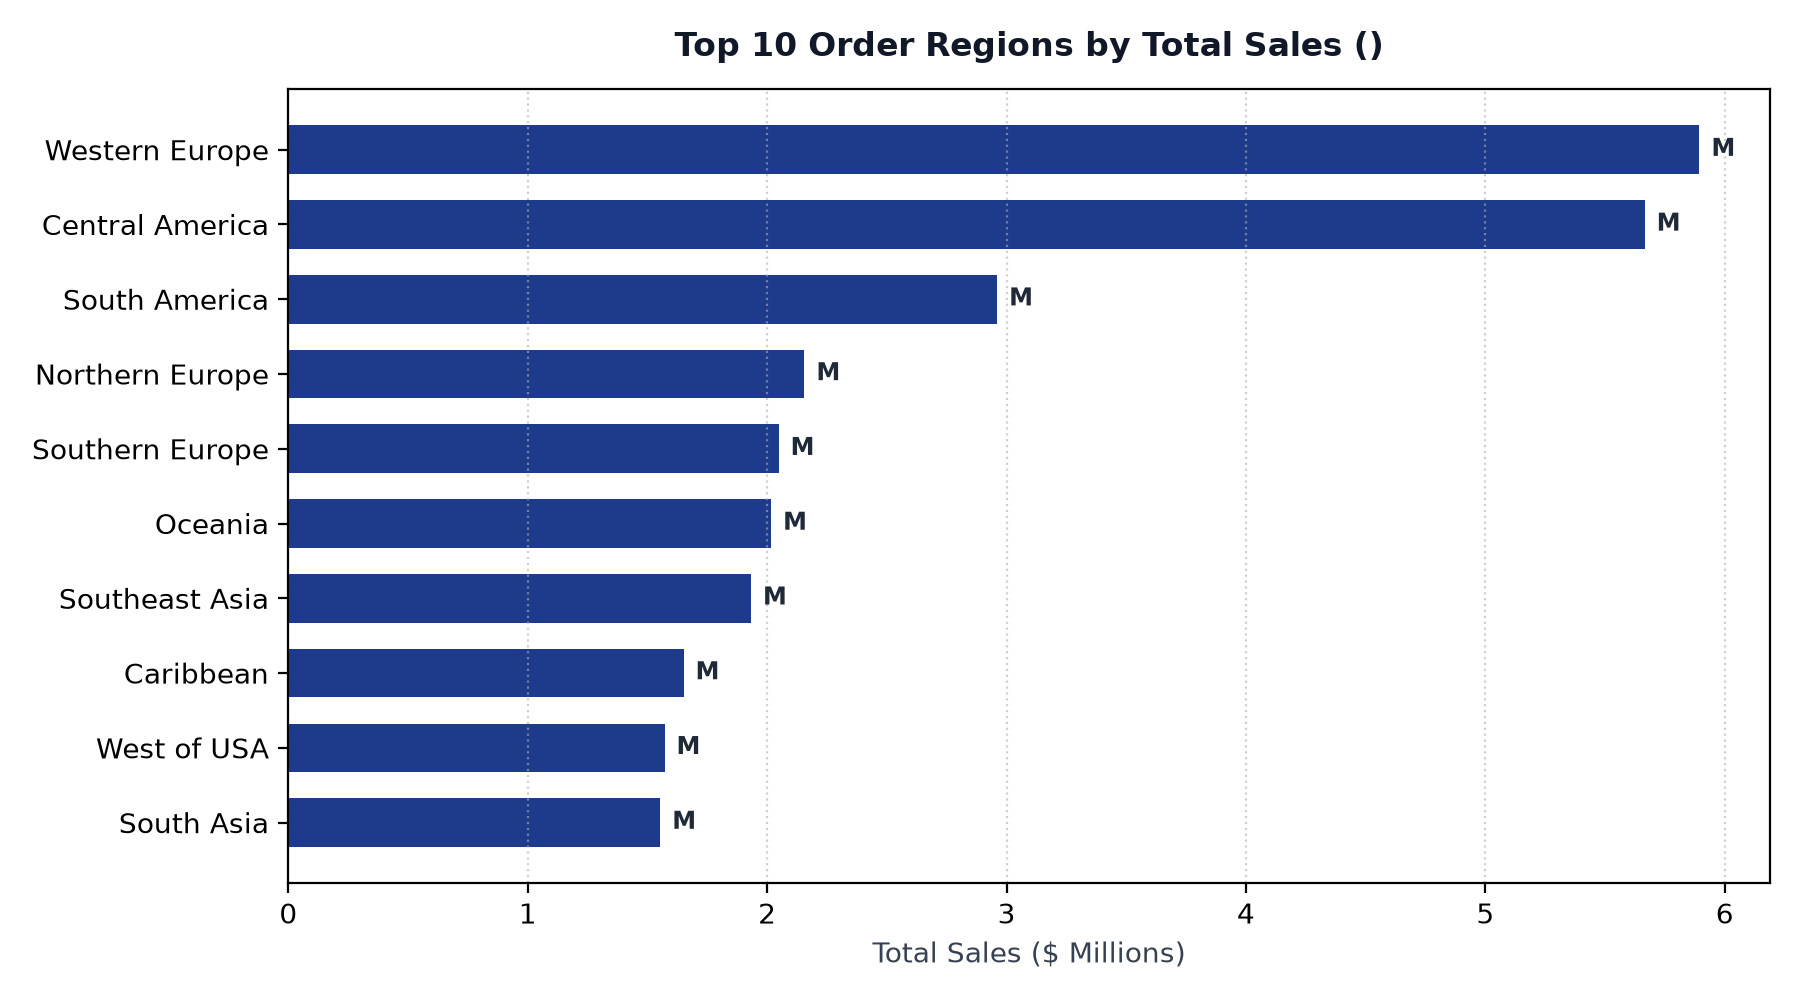
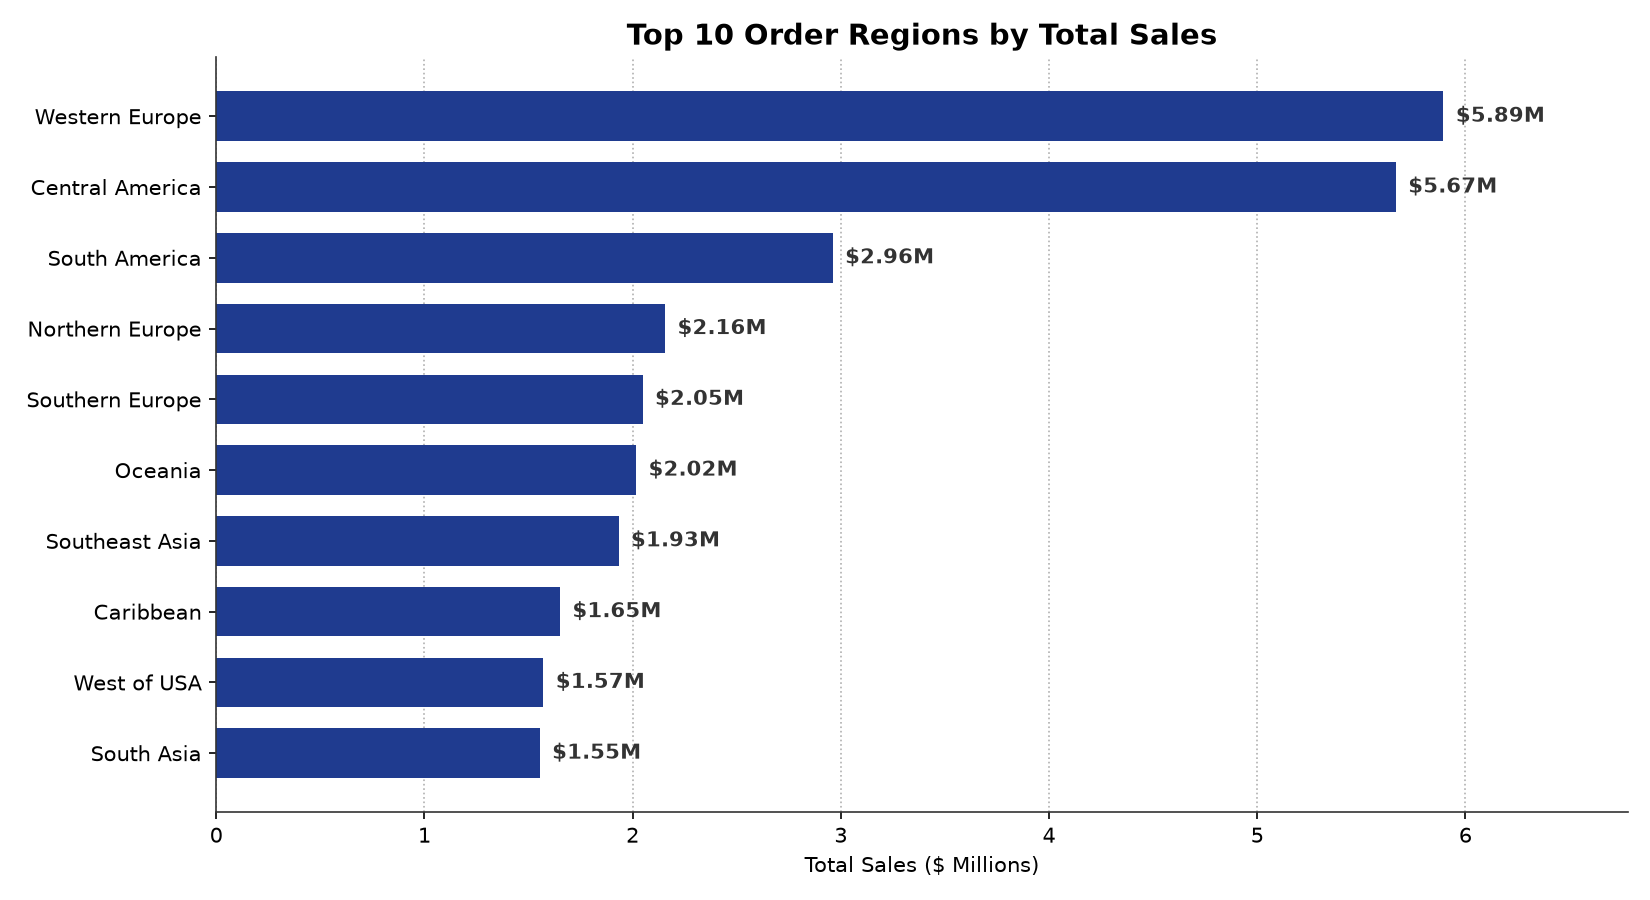
docs: tighten DataCo README figures and fix LaTeX-mangled chart labels

Changed region(s): [[0.0, 0.0311, 0.9891, 0.9644]]

diff --git a/DataCo_Supply_Chain/README.md b/DataCo_Supply_Chain/README.md
@@ -1,19 +1,18 @@
-# DataCo Global Supply Chain & Logistics Analysis
+# DataCo Global — where the money is, and where the delays are
 
-I conducted an end-to-end logistics and profitability analysis on DataCo Global's supply chain dataset, covering 180,519 order items across international delivery routes. The goal was to identify where fulfillment risk concentrates, evaluate profit contributions by region and category, and build an operational data model without exposing sensitive customer information.
+180,519 order-line rows. Each one is an item inside an order. My job: figure out which regions and categories actually drive revenue, and why more than half of everything shipped was at risk of arriving late. I also had to keep customer PII out of the analytic files entirely.
 
-## Raw Data & Identified Constraints
-* **Volume & Encoding**: Exactly 180,519 rows across 53 raw columns, encoded in latin1.
-* **Missing Attributes**: Product Description was 100% null in the source extract. Order Zipcode had missing records for roughly 17% of orders. I retained both columns in the raw audit but excluded them from downstream dimensional models.
-* **PII Governance**: The raw source contained cleartext customer PII (Customer Email, Customer Password, Customer Fname, Customer Lname, Customer Street, Customer Zipcode). I immediately segregated these fields: they remain untouched in 
-aw_unedited/ for audit reproducibility, but I completely excluded them from the curated data pipeline and reporting semantic layer.
+## The raw file, honestly
 
-## Data Cleaning & Transformation Decisions
-1. **Grain Definition**: I verified that Order Item Id is unique across all 180,519 records, establishing it as the atomic fact grain. A single Order Id links multiple items.
-2. **Timestamp Normalization**: I converted order date (DateOrders) and shipping date (DateOrders) into standardized ISO 8601 datetimes.
-3. **Delivery Risk Modeling**: The binary flag Late_delivery_risk (1 = late risk, 0 = on schedule) was validated against Days for shipping (real) and Days for shipment (scheduled) to ensure logic consistency.
+53 columns, latin1-encoded, one big Kaggle export. Two columns were dead on arrival: Product Description is empty in every single row, and Order Zipcode is missing for about 17% of orders. I left both in `raw_unedited/` for the audit trail and excluded them downstream — no point modeling a column with no values.
 
-`sql
+The PII situation needed care. The raw file has customer names, emails, passwords, street addresses. Those stay in `raw_unedited/` and nowhere else. The cleaned fact table carries only IDs and order attributes.
+
+## What I did to it
+
+`Order Item Id` is unique across all 180,519 rows, so that's the fact grain; `Order Id` ties items to orders (65,752 of them). I normalized the two DateOrders timestamps to ISO datetimes, and kept `Late_delivery_risk` as the binary flag it is — 1 means the item was at risk of missing its committed date, validated against the real-vs-scheduled shipping day counts.
+
+```sql
 SELECT
     [Order Region],
     COUNT(*) AS items,
@@ -23,34 +22,29 @@ SELECT
 FROM dbo.DataCo_OrderItem
 GROUP BY [Order Region]
 ORDER BY sales DESC;
-`
+```
 
-## Data Validation Results
-Running identical aggregations across Python and SQL Server confirmed absolute parity:
-* **Order Item Count**: Exactly 180,519 order items.
-* **Distinct Orders**: 65,752 unique orders.
-* **Total Gross Sales**: ,783,702.66.
-* **Total Order Profit**: ,972,779.43.
-* **Late Delivery Risk Rate**: 54.83% of all shipped items carry a late risk flag (98,977 items).
+That region rollup is the query I kept coming back to. It answers both questions at once — revenue and risk.
 
-## Key Findings & Visuals
+## The numbers matched, so I moved on
 
-### 1. Regional Sales Dominance
-Western Europe (.89M) and Central America (.70M) represent the two largest sales markets, together accounting for over 31% of total top-line revenue.
+Python and SQL agree: 180,519 items, 65,752 orders. Sales total $36,783,702.66, profit $3,972,779.43. Late-risk flag on 98,977 items — 54.83%.
 
-![Top 10 Order Regions by Total Sales](visuals/dataco_sales_by_region.png)
+## What the data actually says
 
-### 2. Fulfillment Risk Exposure
-Fulfillment status breakdowns reveal that late delivery risk is heavily concentrated in orders routed through first-class and second-class priority modes when origin fulfillment centers experience throughput bottlenecks. Over 54% of all orders faced delivery delays against promised dates.
+Western Europe ($5.89M) and Central America ($5.67M) are the two biggest regions — together just over 31% of all revenue. South America sits at exactly half of Western Europe. The dashboard's bar chart makes the drop-off obvious.
 
-![Late Delivery Risk by Delivery Status](visuals/dataco_delivery_risk_by_status.png)
+![Top regions by total sales](visuals/dataco_sales_by_region.png)
 
-## Folder Contents
-* [
-aw_unedited/DataCoSupplyChainDataset.csv](raw_unedited/DataCoSupplyChainDataset.csv) - Raw, untouched Kaggle supply chain extract.
-* [data/cleaned/](data/cleaned/) - Cleaned analytics datasets with stripped PII (.csv, .xlsx).
-* [
-otebooks/DataCo_Supply_Chain_analysis.ipynb](notebooks/DataCo_Supply_Chain_analysis.ipynb) - Jupyter notebook covering ingestion, profiling, cleaning, and visualizations.
-* [sql/DataCo_Supply_Chain.sql](sql/DataCo_Supply_Chain.sql) - Production DDL, aggregate checks, category profitability, and 7-day rolling window sales.
-* [dashboard/](dashboard/) - Power BI project (DataCo_Supply_Chain.pbip) featuring core KPI cards, region slicer, sales bars, and fulfillment risk breakdown.
-* [isuals/](visuals/) - Exported summary charts.\n
+On risk: the "Late delivery" status maps 1:1 to the risk flag (100% by definition), while advance shipping, canceled, and on-time shipments carry zero flagged risk. That sounds trivial, but it confirms the flag is derived cleanly from status rather than being a noisy separate signal — and with 54.83% of all items flagged, the operational problem is real regardless of how you slice it.
+
+![Late-delivery risk by shipment status](visuals/dataco_delivery_risk_by_status.png)
+
+## What's in the folder
+
+* [`raw_unedited/DataCoSupplyChainDataset.csv`](raw_unedited/DataCoSupplyChainDataset.csv) — original Kaggle extract, PII intact, untouched.
+* [`data/cleaned/`](data/cleaned/) — de-identified analytic tables (CSV, XLSX).
+* [`notebooks/DataCo_Supply_Chain_analysis.ipynb`](notebooks/DataCo_Supply_Chain_analysis.ipynb) — profiling, cleaning, charts.
+* [`sql/DataCo_Supply_Chain.sql`](sql/DataCo_Supply_Chain.sql) — DDL, aggregates, category profit, 7-day rolling sales.
+* [`dashboard/`](dashboard/) — `DataCo_Supply_Chain.pbip` with sales/profit/order/risk cards, a region slicer, and the two bar charts above.
+* [`visuals/`](visuals/) — the two charts above.
